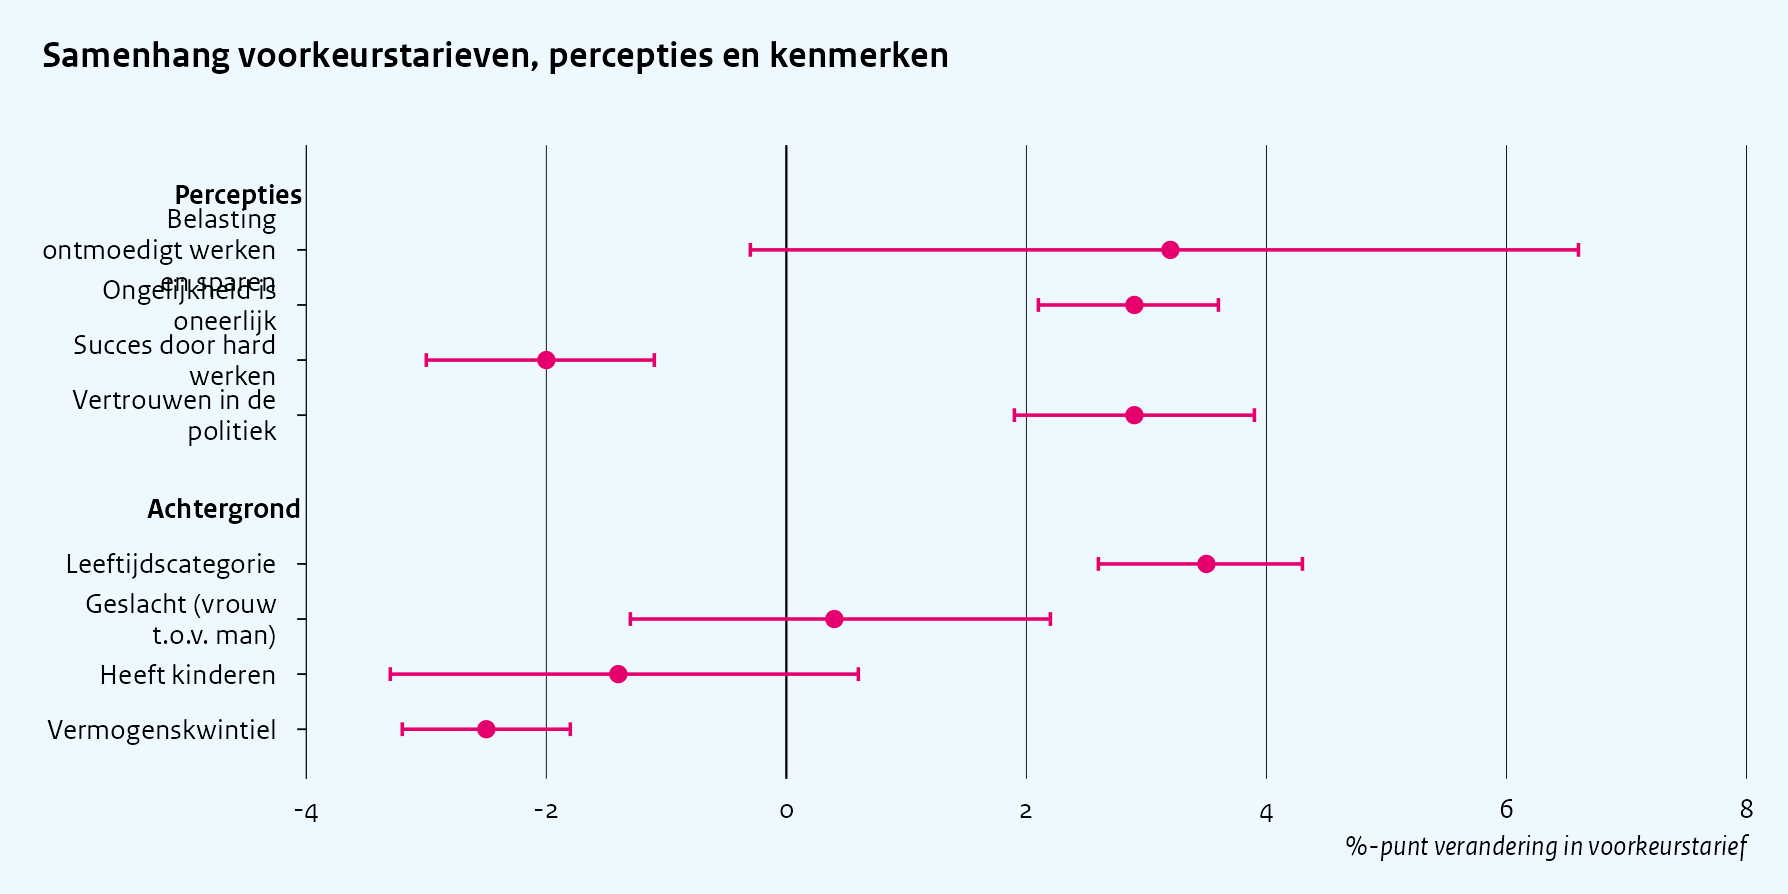
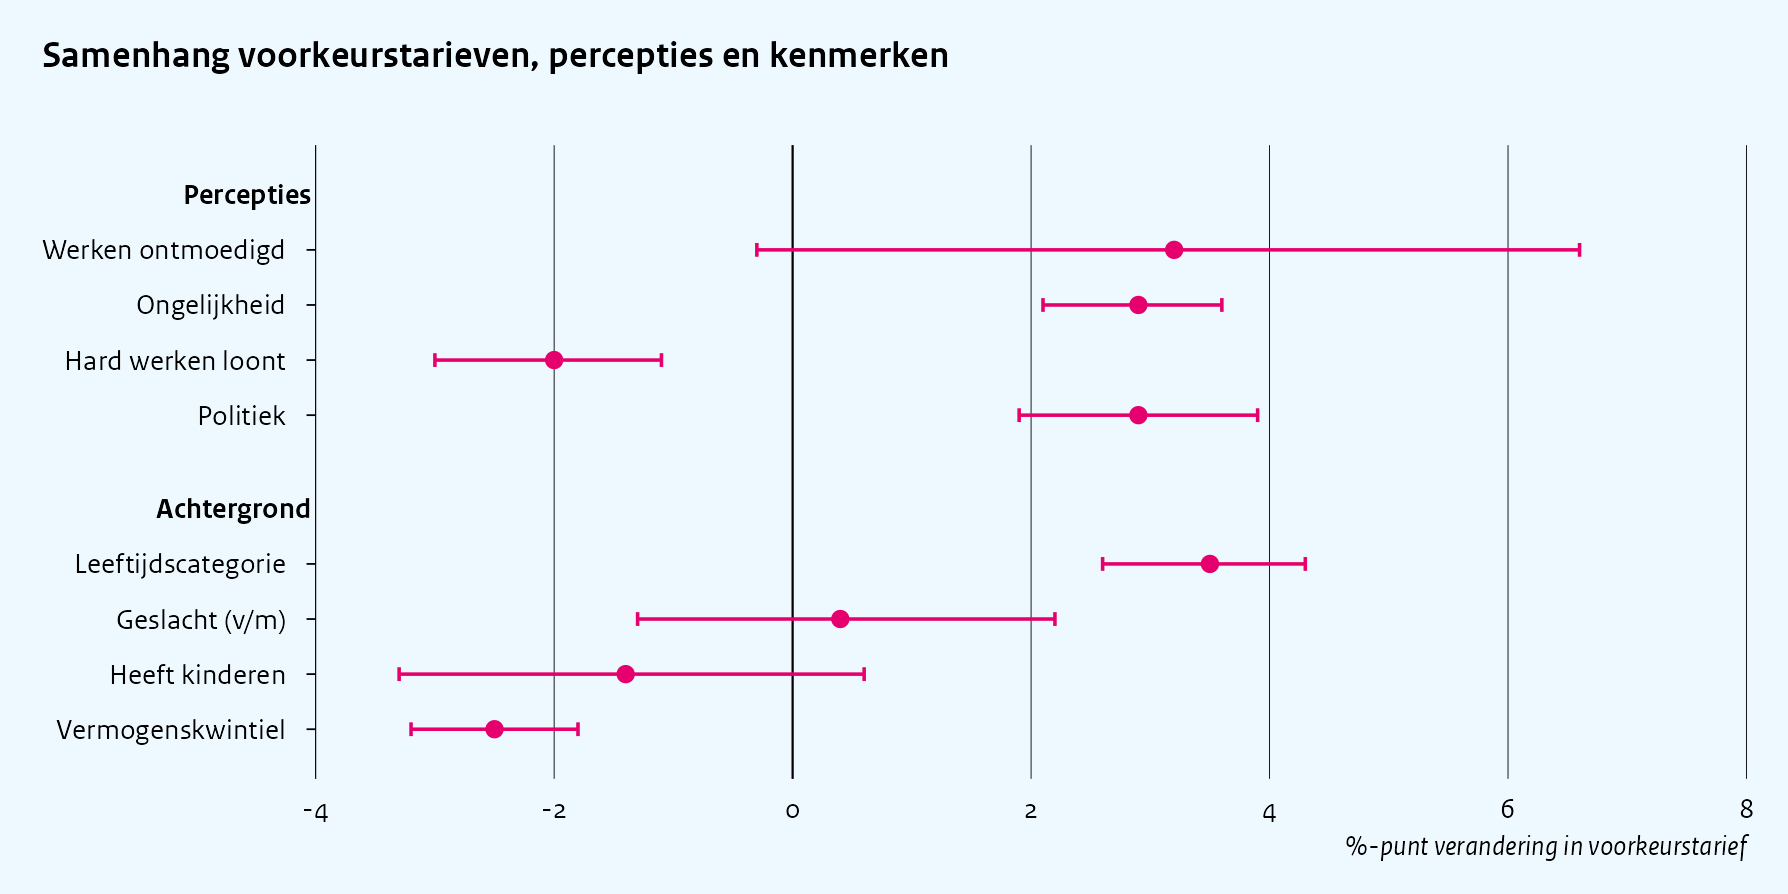
doc/: rebuild chart-types with the shortened dot-chart labels

diff --git a/doc/chart-types.md b/doc/chart-types.md
@@ -494,11 +494,9 @@ bottom in the order of the factor levels. `group` collects the rows
 under bold headings, exactly as in `cpb_box()`:
 
 ``` r
-termen <- c("Belasting ontmoedigt werken en sparen",
-            "Ongelijkheid is oneerlijk", "Succes door hard werken",
-            "Vertrouwen in de politiek", "Leeftijdscategorie",
-            "Geslacht (vrouw t.o.v. man)", "Heeft kinderen",
-            "Vermogenskwintiel")
+termen <- c("Werken ontmoedigd", "Ongelijkheid", "Hard werken loont",
+            "Politiek", "Leeftijdscategorie", "Geslacht (v/m)",
+            "Heeft kinderen", "Vermogenskwintiel")
 schatting <- tibble(
   term = factor(termen, levels = termen),
   blok = factor(rep(c("Percepties", "Achtergrond"), each = 4),
